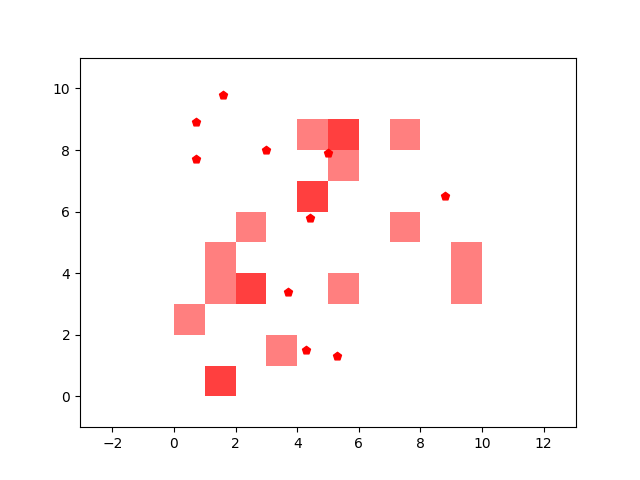
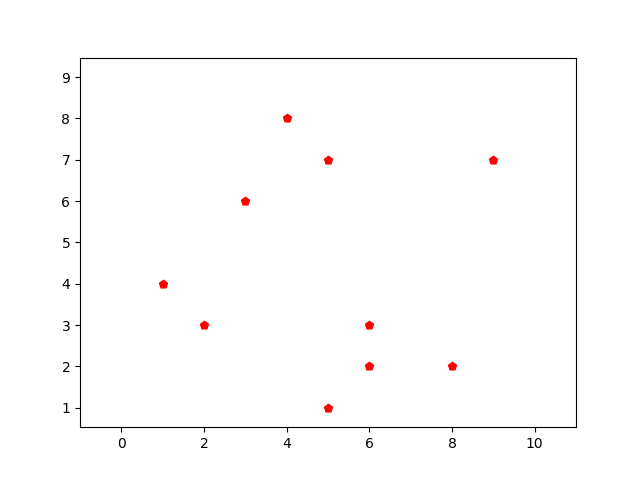
base greedy algorithm to visit all casualties

diff --git a/objects/environment.py b/objects/environment.py
@@ -1,5 +1,9 @@
 from .bot import Bot
 from .environment_generator import Environment_Generator
+import numpy as np
+import math
+import matplotlib.pyplot as plt
+import os
 
 
 class Environment():
@@ -9,16 +13,117 @@ class Environment():
         self.height = globals.height
         self.res = globals.res
         self.bots = bots
-        self.generator = EnvironmentGenerator(globals.casualties, globals.obstacles)
-        self.casualties = self.generator.casualties
-        self.obstacles = self.generator.obstacles
-
+        self.env = Environment_Generator(globals)
+        self.casualties = self.env.casualties
+        self.obstacles = self.env.obstacles
+        self.time = globals.time
+        self.globals = globals
 
 
     def run_sim(self):
-        self.update()
+        x = []
+        y = []
+
+        for i, bot in enumerate(self.bots):
+            x.append([bot.location[0]])
+            y.append([bot.location[1]])
+
+        for i in range(self.time):
+            for bot in self.bots:
+                if bot.casualty_number is None:
+                    self.assign_casualty(bot)
+                    self.plan_bot_trajectory(bot)
+                self.update_bot_input(bot)
+
+            self.update()
+            if i % 3 == 0:
+                for j, bot in enumerate(self.bots):
+                    x[j].append(bot.location[0])
+                    y[j].append(bot.location[1])
+
+            if i % 10 == 0:
+                self.save_plot(x, y, i)
+                print("Iteration: " + str(i))
+
+    def plan_bot_trajectory(self, bot):
+
+        pass
+        # plan bot trajectory (the next set of points it should visit)
+
+
+    def update_bot_input(self, bot):
+        # if a bot is within a certain distance of the point it was supposed to visit,
+        # update to move to next point
+        # if the next point is close enough to a casualty, start the casualty timer
+        if bot.casualty_number is not None:
+
+            casualty = self.env.casualties[bot.casualty_number]
+            if math.dist(bot.location, [casualty[0], casualty[1]]) < self.globals.min_dist_from_casualty:
+                bot.aiding_timer += 1
+                bot.input = [0, 0]
+                bot.aiding = True
+
+            if bot.aiding_timer == 0:
+                casualty_vec = np.array([[casualty[0]], [casualty[1]]])
+                bot_vec = np.array([[bot.location[0]], [bot.location[1]]])
+                diff_vec = casualty_vec - bot_vec
+                directional_norm = list(diff_vec / np.sqrt(np.sum(diff_vec**2)))
+                bot.input = [directional_norm[0][0], directional_norm[1][0]]
+            elif bot.aiding_timer >= 5:
+                self.env.casualties[bot.casualty_number][2] = 'v'
+                bot.aiding_timer = 0
+                bot.casualty_number = None
+                bot.aiding = False
+            else:
+                bot.aiding_timer += 1
+
+        else:
+            bot.input = [0, 0]
+
+
+    def assign_casualty(self, bot):
+
+        # hard coded ceiling
+        casualty_number = None
+        min_dist = 1000
+        for i, casualty in enumerate(self.env.casualties):
+            if not casualty[3]:
+                point = (casualty[0], casualty[1])
+                dist = math.dist(bot.location, point)
+                if dist < min_dist:
+                    min_dist = dist
+                    casualty_number = i
+
+        if casualty_number is not None:
+            bot.aiding = True
+            bot.casualty_number = casualty_number
+            self.env.casualties[casualty_number][3] = True
 
 
     def update(self):
         for bot in self.bots:
             bot.update()
+
+
+    def save_plot(self, x, y, title):
+        # set up the plot
+        fig, ax = plt.subplots()
+        points = []
+
+        plt.axes(ax)
+        for i in range(len(self.env.casualties)):
+            plt.scatter(self.casualties[i][0], self.casualties[i][1], marker=self.casualties[i][2], color='r')
+
+        ax.set_aspect('equal', 'datalim')
+
+        for shape in self.obstacles:
+            xs, ys = shape.exterior.xy
+            ax.fill(xs, ys, alpha=0.5, fc='r', ec='none')
+
+        ax.set_xlim((-1, 11))
+        ax.set_ylim((-1, 11))
+
+        for i in range(len(self.bots)):
+            plt.scatter(x[i], y[i], marker='+')
+
+        plt.savefig(os.getcwd() + "/data/" + str(title) + ".png")

diff --git a/objects/environment_generator.py b/objects/environment_generator.py
@@ -3,7 +3,6 @@ from shapely.geometry import Polygon, Point, box
 import matplotlib.pyplot as plt
 import shapely.geometry as sg
 import shapely.ops as so
-import matplotlib.pyplot as plt
 import random
 import os
 
@@ -12,19 +11,24 @@ class Environment_Generator():
     def __init__(self, params):
         self.params = params
         self.obstacles = []
-        self.generate_obstacles()
+        # self.generate_obstacles()
         self.casualties = []
-        self.generate_casualties()
+        self.generate_casualties(random=False)
         self.plot_grid()
 
 
     # generator random locations for casualties based on global parameter
-    def generate_casualties(self):
-        for i in range(self.params.num_casualties):
-            point = (round(random.random() * self.params.x_max, 1), round(random.random() * self.params.y_max, 1))
-            while not self.casualty_checker(point):
+    def generate_casualties(self, random=True):
+        if random:
+            for i in range(self.params.num_casualties):
                 point = (round(random.random() * self.params.x_max, 1), round(random.random() * self.params.y_max, 1))
-            self.casualties.append((point[0], point[1], 'p'))
+                while not self.casualty_checker(point):
+                    point = (round(random.random() * self.params.x_max, 1), round(random.random() * self.params.y_max, 1))
+                self.casualties.append([point[0], point[1], 'p', False])
+        else:
+            casualties = [[1, 4], [2,3], [4, 8], [8, 2], [9, 7], [6,3], [6, 2], [5, 1], [3, 6], [5, 7]]
+            for casualty in casualties:
+                self.casualties.append([casualty[0], casualty[1], 'p', False])
 
 
     # make sure generated casualty point is not in an obstacle
@@ -74,4 +78,4 @@ class Environment_Generator():
 
     # TODO: create moving obstacles
     def shift_obstacles(self):
-        pass 
+        pass

diff --git a/objects/bot.py b/objects/bot.py
@@ -1,21 +1,24 @@
+import numpy as np
+
+
 class Bot():
 
-    def __init__(self, state, k=0.005):
-        self._state = state
-        # self._stoch_state = self._state + np.random.randn(2)
+    def __init__(self, location, k=0.05):
+        self.location = location
         self.input = [0,0]
+        self.casualty_number = None
 
-        self.k = k
+        # change to argument k later
+        self.k = 0.05
+        self.next_point = None
+        self.aiding_timer = 0
+        self.aiding = False
+        self.trajectory = [location]
 
 
     def update(self):
-        self._state[0] += self.k * self.input[0]
-        self._state[1] += self.k * self.input[1]
-        # self._stoch_state = self._state + np.random.randn(2)
-
-        # reset input gradient
-        self.input = [0, 0]
-
-
-    def stoch_state(self):
-        return np.array(self._stoch_state)
+        self.location[0] += self.k * self.input[0]
+        self.location[1] += self.k * self.input[1]
+        self.trajectory.append(self.location)
+        # print(self.trajectory)
+        self.input = np.array([0, 0])

diff --git a/globals.py b/globals.py
@@ -3,20 +3,12 @@ from objects.bot import Bot
 
 class Globals():
 
-    def generate_bots(self, coordinates):
-        robots = []
-        for coordinate in coordinates:
-            robots.append(Bot(coordinate))
-
-        return robots
-
 
     width = 10
     height = 10
     res = 1
-    robot_coordinates = [[5, 1], [4, 8], [9, 3], [1, 6]]
-    num_robots = len(robot_coordinates)
-    # robots = generate_bots(robot_coordinates)
+
+
     x_min = 0
     y_min = 0
     x_max = 10
@@ -27,3 +19,8 @@ class Globals():
     obstacles = False
     num_obstacles = 5
     num_casualties = 10
+
+
+    time = 201
+
+    min_dist_from_casualty = 0.1

diff --git a/test.py b/test.py
@@ -1,7 +1,14 @@
 from objects.environment import Environment
 from objects.environment_generator import Environment_Generator
 from globals import Globals
+from objects.bot import Bot
 
+
+
+
+bots = [Bot([1, 1]), Bot([1, 1]), Bot([1, 1])]
 
 globals = Globals()
-generator = Environment_Generator(globals)
+environment = Environment(globals, bots)
+
+environment.run_sim()
